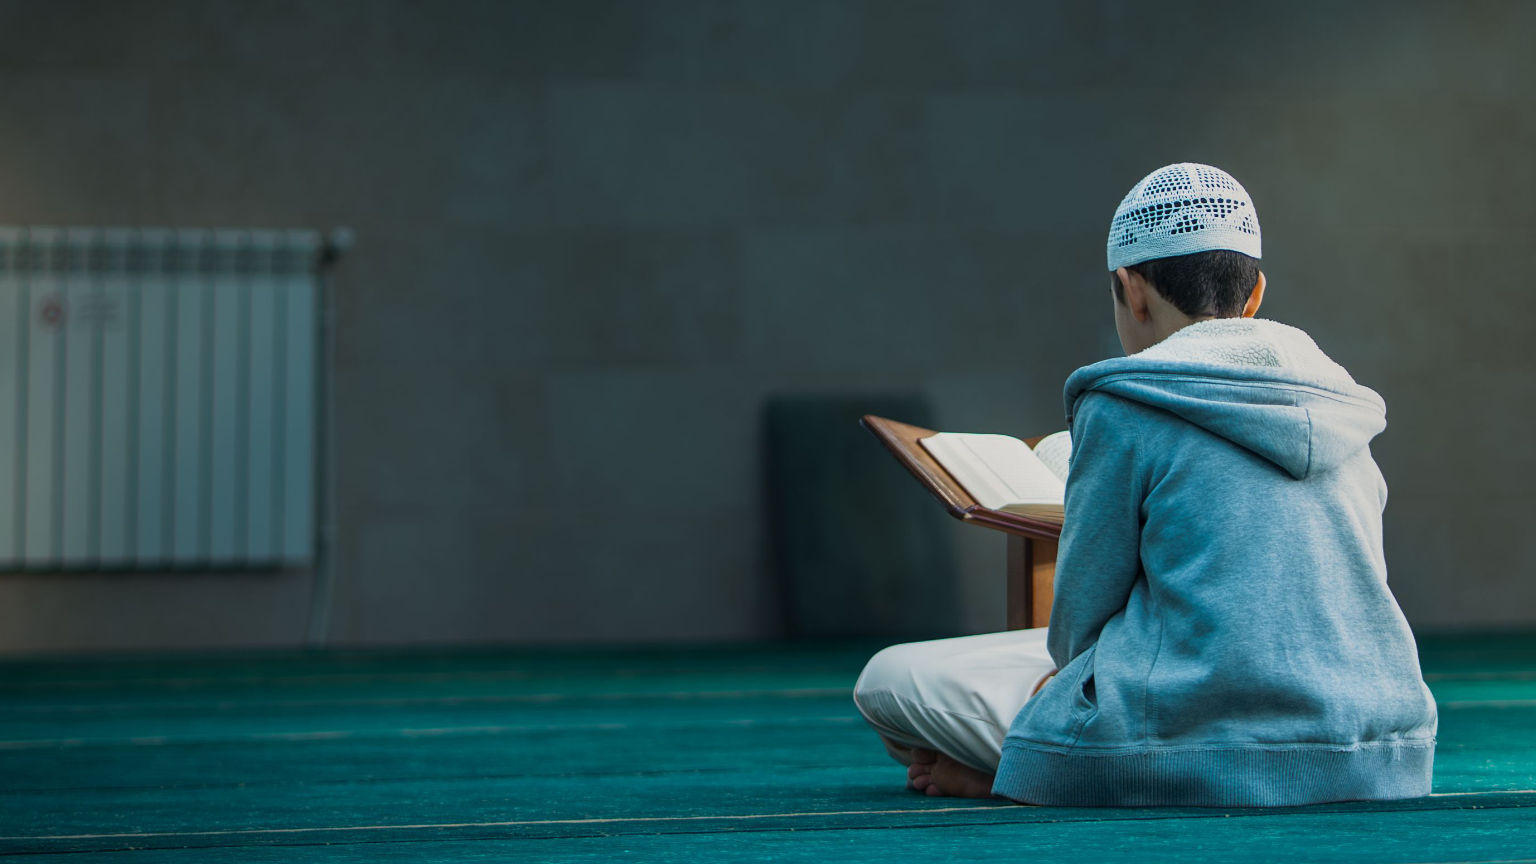
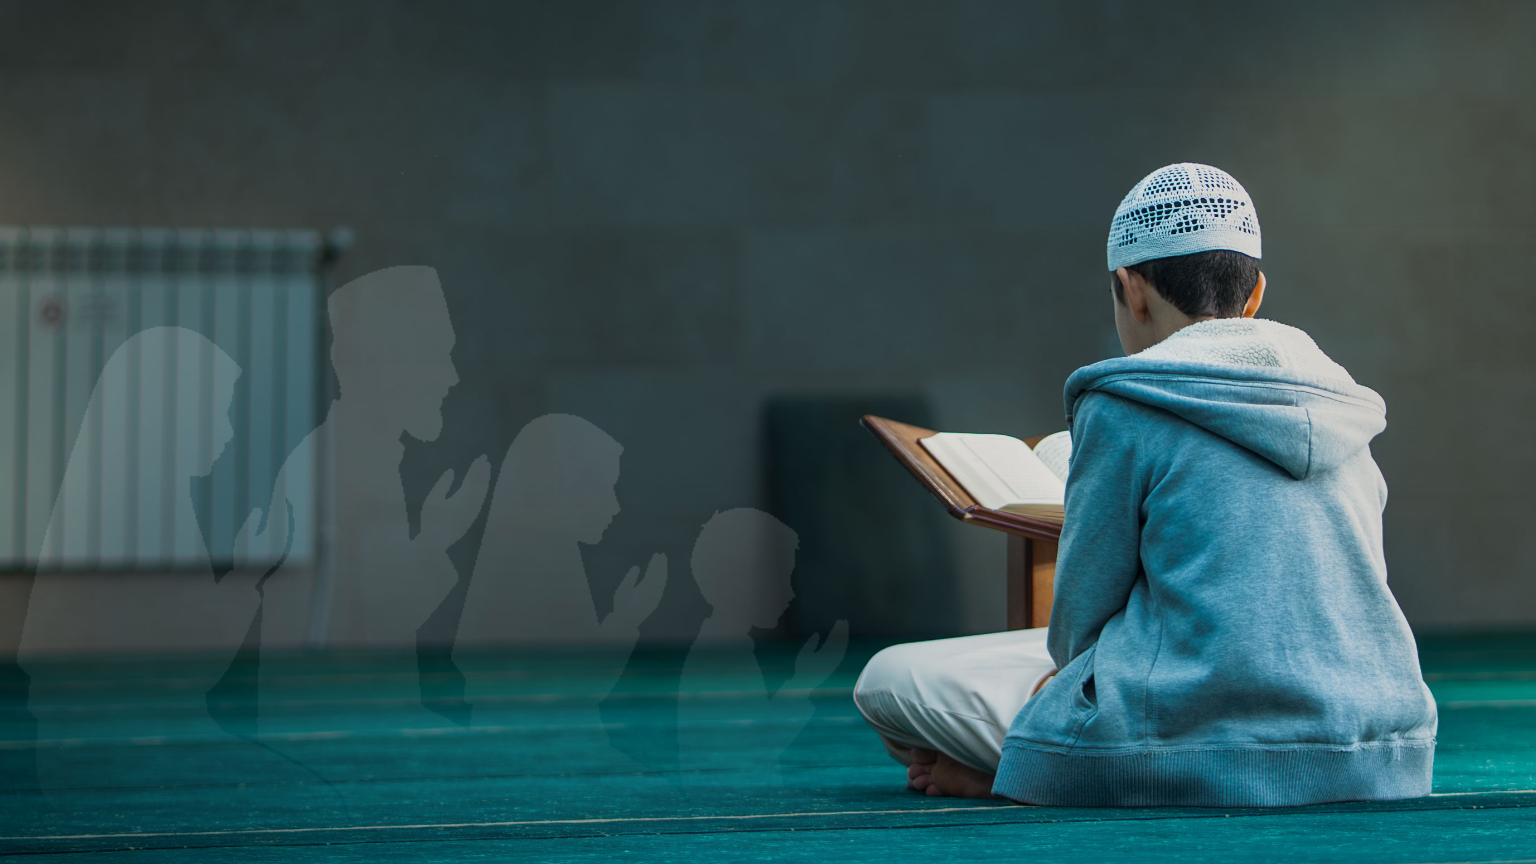
feat(home): tune hero typography scaling and description for Sri Lankan families abroad

Changed region(s): [[0.0625, 0.2812, 0.4062, 0.625], [0.4375, 0.5625, 0.5312, 0.6875]]

diff --git a/frontend/src/app/page.tsx b/frontend/src/app/page.tsx
@@ -245,7 +245,7 @@ export default function HomePage() {
         {/* Background Single Image — Student Reciting Holy Quran */}
         <div className="absolute inset-0 z-0 overflow-hidden bg-stone-950">
           <Image
-            src="/home images/test24.png"
+            src="/home images/test56.png"
             alt="Student reciting Holy Quran in mosque"
             fill
             priority
@@ -288,28 +288,28 @@ export default function HomePage() {
         </div>
 
         {/* Top spacer for fixed header alignment */}
-        <div className="w-full h-16 sm:h-20 shrink-0 pointer-events-none" aria-hidden="true" />
+        <div className="w-full h-12 sm:h-16 shrink-0 pointer-events-none" aria-hidden="true" />
 
         {/* Left-Aligned Hero Content — Exactly aligned to Header Logo */}
         <motion.div
           initial={{ opacity: 0, y: 24 }}
           animate={{ opacity: 1, y: 0 }}
           transition={{ duration: 0.7, ease: [0.22, 1, 0.36, 1] }}
-          className="relative z-20 my-auto w-full px-4 sm:px-6 lg:px-12 flex flex-col items-center py-8 sm:py-12"
+          className="relative z-20 my-auto w-full px-4 sm:px-6 lg:px-12 flex flex-col items-center py-4 sm:py-6"
         >
           <div className="w-full max-w-7xl px-5 sm:px-7">
-            <div className="max-w-2xl lg:max-w-3xl flex flex-col items-start text-left">
-              {/* 3-Line Triangle Format Headline (Short peak -> Medium -> Long base in 1 line) */}
-              <h1 className="text-[28px] sm:text-[34px] md:text-[40px] lg:text-[48px] xl:text-[52px] font-bold tracking-tight text-white leading-[1.12] drop-shadow-[0_2px_10px_rgba(0,0,0,0.40)] font-bricolage text-left">
+            <div className="max-w-2xl lg:max-w-3xl xl:max-w-4xl flex flex-col items-start text-left">
+              {/* 3-Line Triangle Format Headline (Increased font size & tighter line spacing) */}
+              <h1 className="text-[32px] sm:text-[38px] md:text-[45px] lg:text-[53px] xl:text-[58px] font-bold tracking-tight text-white leading-[1.04] drop-shadow-[0_2px_10px_rgba(0,0,0,0.40)] font-bricolage text-left">
                 <span className="block text-white">Learn Quran</span>
-                <span className="block text-white mt-1 sm:mt-1.5">&amp; Islamic Studies</span>
-                <span className="block text-[#EAD08A] mt-2 sm:mt-2.5 text-[20px] sm:text-[25px] md:text-[30px] lg:text-[35px] xl:text-[38px] font-semibold tracking-tight whitespace-nowrap">
+                <span className="block text-white mt-0.5 sm:mt-1">&amp; Islamic Studies</span>
+                <span className="block text-[#EAD08A] mt-1 sm:mt-1.5 text-[18px] sm:text-[22px] md:text-[26px] lg:text-[30px] xl:text-[34px] font-semibold tracking-tight whitespace-nowrap">
                   from Qualified Scholars Worldwide
                 </span>
               </h1>
 
-              {/* Dual Pill CTA Buttons with thinned font */}
-              <div className="mt-8 sm:mt-11 flex flex-wrap items-center justify-start gap-3.5 sm:gap-4">
+              {/* Dual Pill CTA Buttons with reduced spacing */}
+              <div className="mt-5 sm:mt-6 flex flex-wrap items-center justify-start gap-3.5 sm:gap-4">
                 <Link
                   href="#courses"
                   className="brand-button brand-button-inverse px-8 py-3 text-sm sm:text-base !font-light tracking-wide shadow-lg shadow-black/40"
@@ -323,6 +323,11 @@ export default function HomePage() {
                   Join the Waitlist
                 </Link>
               </div>
+
+              {/* Description Content — Clear summary of Ilmbit for Sri Lankans abroad */}
+              <p className="mt-6 sm:mt-7 max-w-xl text-sm sm:text-[15px] text-stone-200/90 leading-relaxed drop-shadow-sm font-normal">
+                Connecting Sri Lankan families living abroad directly with verified scholars for a personalized Quran recitation and Islamic learning experience, suited to your time and personal pace.
+              </p>
             </div>
           </div>
         </motion.div>
